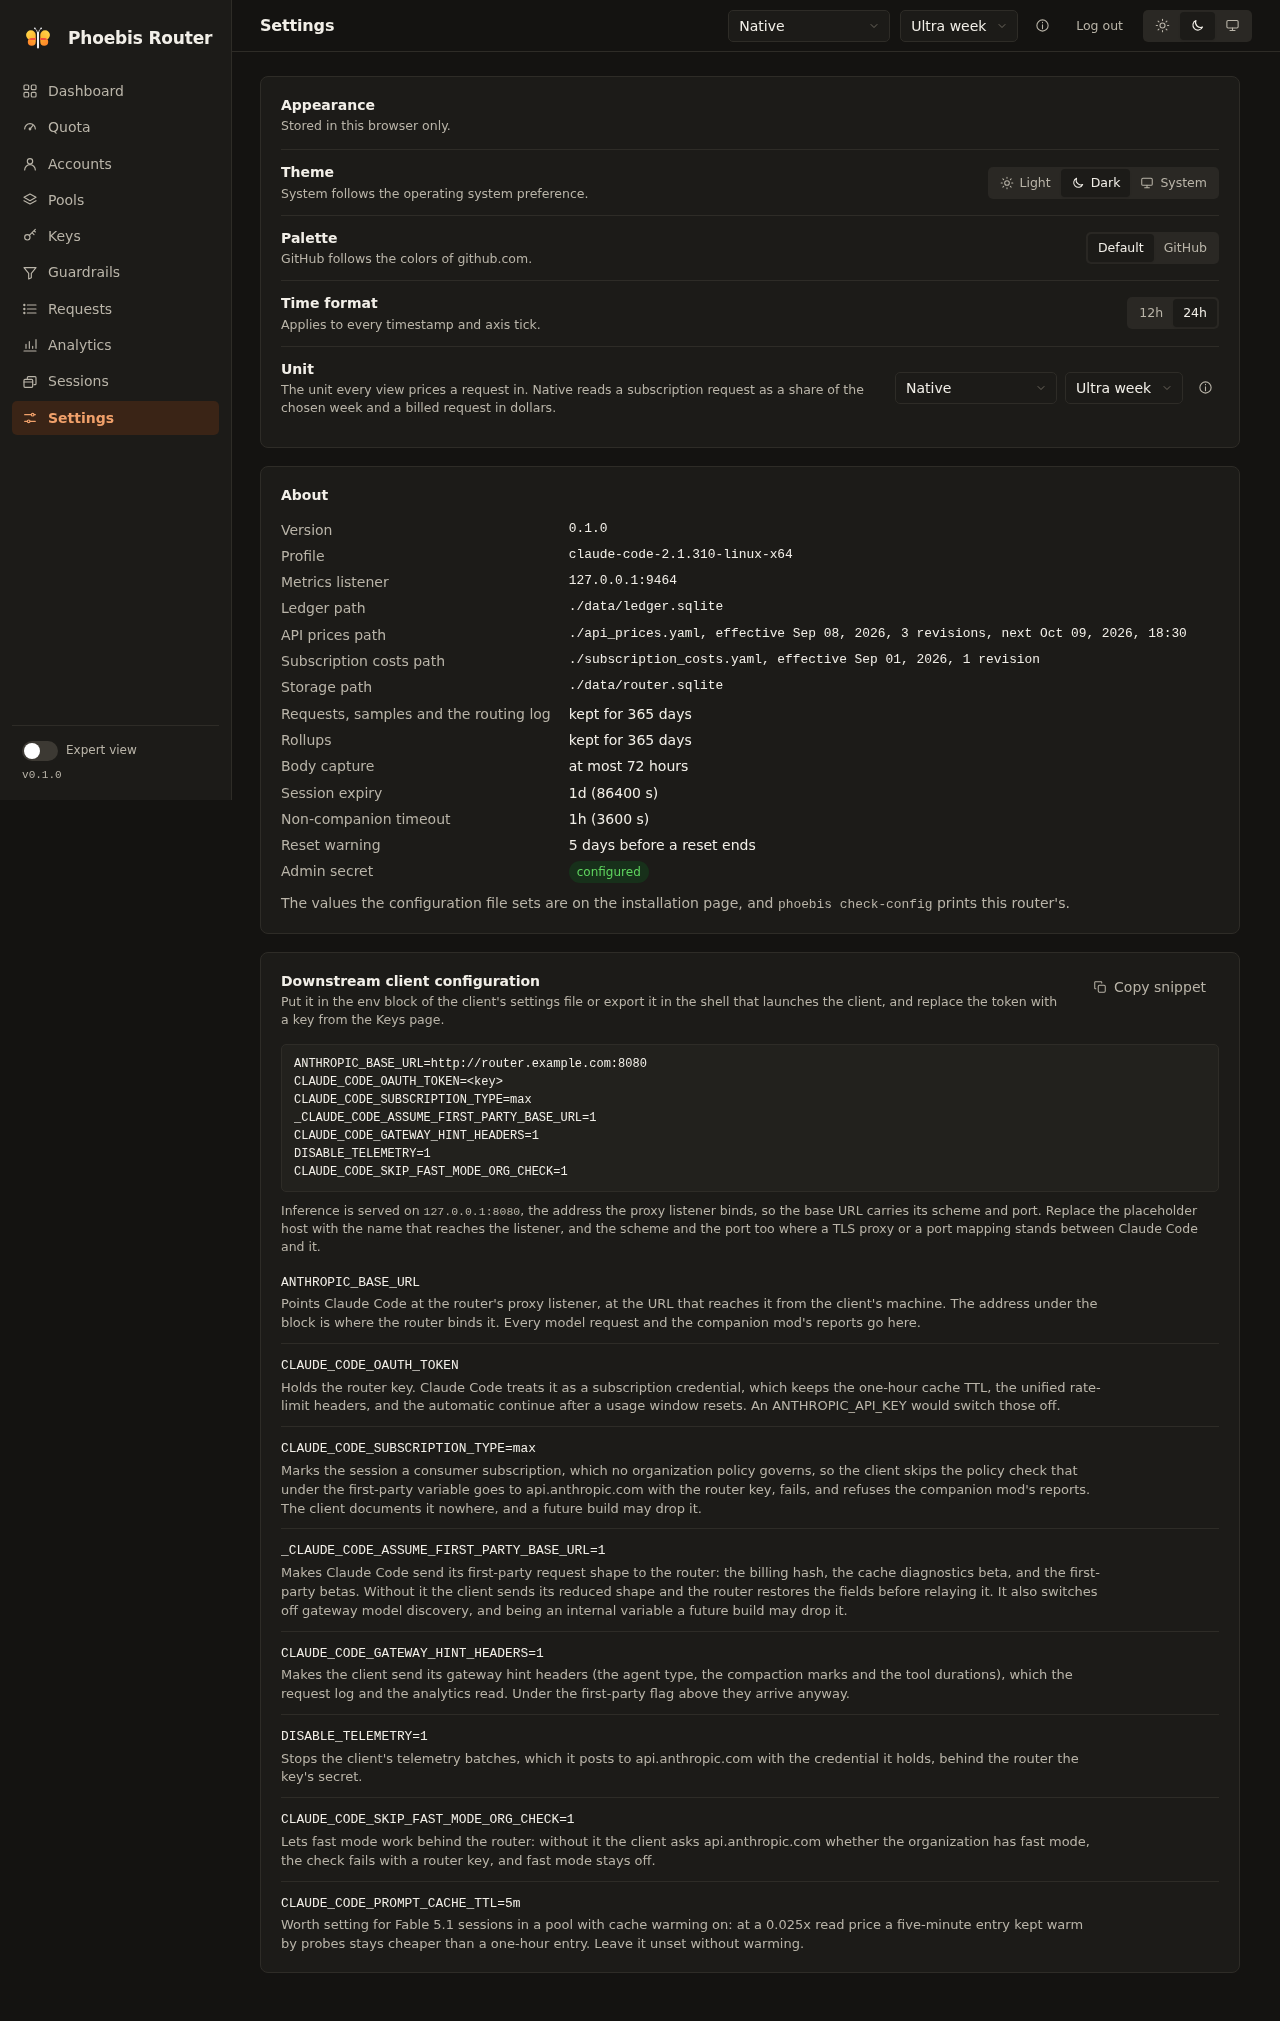
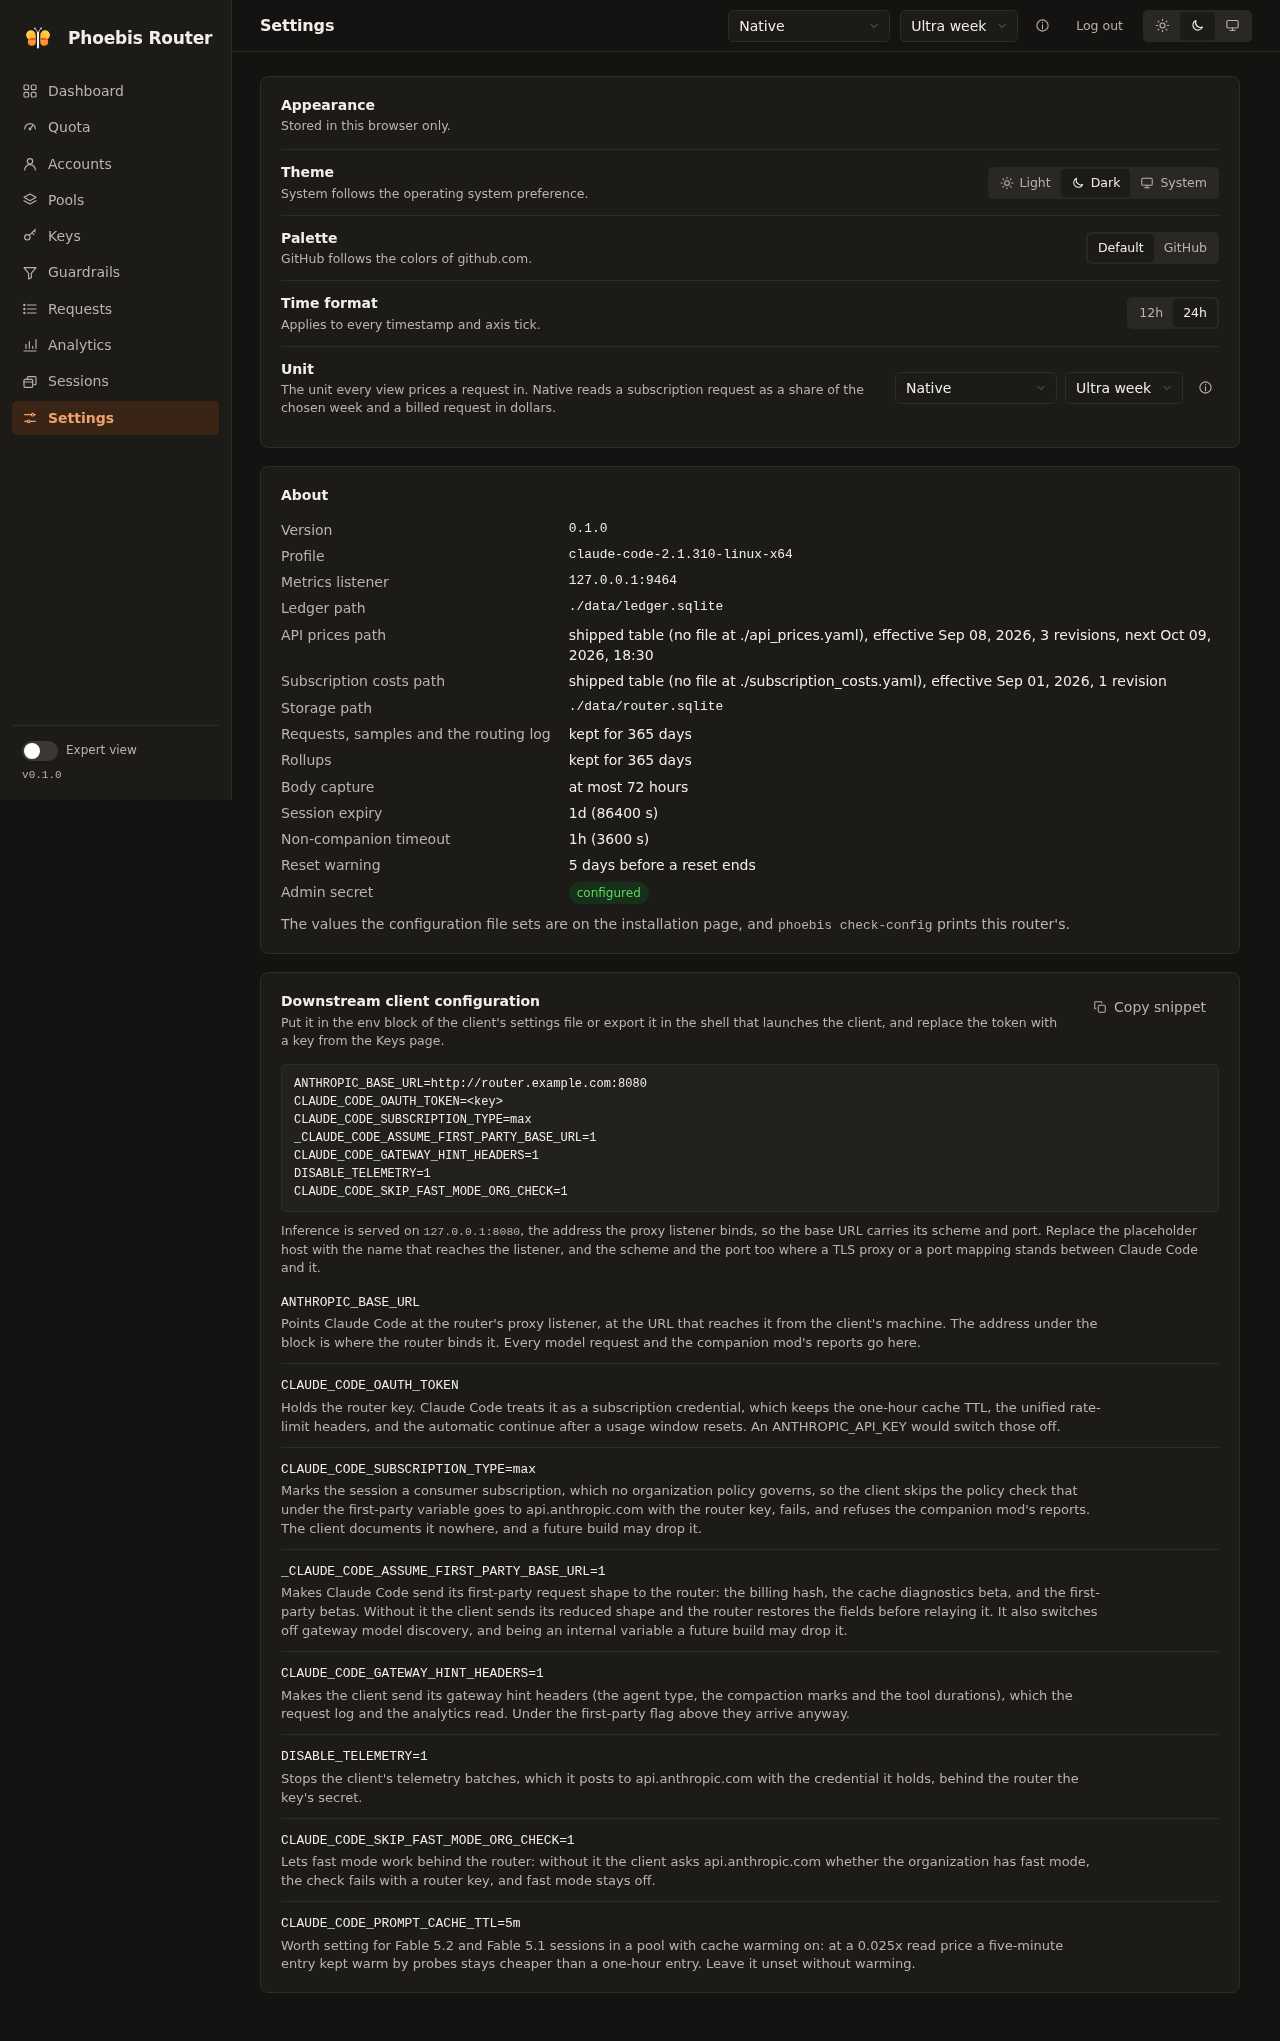
Name each price table's source, add Fable 5.2 to the TTL advice
A router that finds no file at a configured price path serves the
table it ships, and the About card's "API prices path" and
"Subscription costs path" rows still printed that path as if the
router had read it. Each row now reads the table's source: "shipped
table (no file at <path>)" beside a set path, "shipped table (not
configured)" where the key is unset, and the path where the router
read the file. Only a row that reads a file keeps the mono face.

The mock's two tables are the shipped ones beside two configured
paths, so the story's rows read "shipped table (no file at
./api_prices.yaml)" and "shipped table (no file at
./subscription_costs.yaml)" and the settings screenshots move. The
smoke's About list and its unreadable cost model case read the
shipped form, and its free-text and pending cases give their price
table a file source, so they keep the path at the row's head.

The CLAUDE_CODE_PROMPT_CACHE_TTL=5m advice names Fable 5.2 beside
Fable 5.1.

diff --git a/web/src/pages/SettingsPage.tsx b/web/src/pages/SettingsPage.tsx
@@ -41,7 +41,7 @@ const ENV_TERMS: { body: string; term: string }[] = [
   },
   {
     term: 'CLAUDE_CODE_PROMPT_CACHE_TTL=5m',
-    body: 'Worth setting for Fable 5.1 sessions in a pool with cache warming on: at a 0.025x read price a five-minute entry kept warm by probes stays cheaper than a one-hour entry. Leave it unset without warming.',
+    body: 'Worth setting for Fable 5.2 and Fable 5.1 sessions in a pool with cache warming on: at a 0.025x read price a five-minute entry kept warm by probes stays cheaper than a one-hour entry. Leave it unset without warming.',
   },
 ];
 
@@ -62,6 +62,10 @@ const revisionsNote = (revisions: { effective: string; effectiveDate: string | n
   const count = plural(revisions.length, 'revision');
   return `effective ${effectiveLabel(inForce.effective)}, ${count}${pending === undefined ? '' : `, next ${effectiveLabel(pending.effective)}`}`;
 };
+
+/** A price row's source words. With no path set the router can only have read the table it ships. */
+const sourceWords = (source: string, path: string | null): string =>
+  path === null ? 'shipped table (not configured)' : source === 'shipped' ? `shipped table (no file at ${path})` : path;
 
 function SecretBadge({ configured }: { configured: boolean }) {
   return <Badge tone={configured ? 'good' : 'warning'}>{configured ? 'configured' : 'not configured'}</Badge>;
@@ -153,8 +157,8 @@ export function SettingsPage() {
                 { label: 'Profile', value: s.about.profile, mono: true },
                 { label: 'Metrics listener', value: s.listeners.metrics, mono: true, title: 'The Prometheus scrape endpoint.' },
                 { label: 'Ledger path', value: s.storage.ledgerPath, mono: true, title: bootstrapNote('stats.ledger_path') },
-                { label: 'API prices path', value: `${s.storage.apiPricesPath ?? 'not configured'}, ${revisionsNote(s.apiPrices.revisions, s.apiPrices.effective, now)}`, mono: s.storage.apiPricesPath !== null, title: bootstrapNote('stats.api_prices_path') },
-                { label: 'Subscription costs path', value: `${s.storage.subscriptionCostsPath ?? 'not configured'}${s.subscriptionCosts.problem === null ? `, ${revisionsNote(s.subscriptionCosts.revisions, s.subscriptionCosts.effective, now)}` : `. ${s.subscriptionCosts.problem}`}`, mono: s.subscriptionCosts.problem === null && s.storage.subscriptionCostsPath !== null, title: bootstrapNote('stats.subscription_costs_path') },
+                { label: 'API prices path', value: `${sourceWords(s.apiPrices.source, s.storage.apiPricesPath)}, ${revisionsNote(s.apiPrices.revisions, s.apiPrices.effective, now)}`, mono: s.apiPrices.source !== 'shipped' && s.storage.apiPricesPath !== null, title: bootstrapNote('stats.api_prices_path') },
+                { label: 'Subscription costs path', value: `${sourceWords(s.subscriptionCosts.source, s.storage.subscriptionCostsPath)}${s.subscriptionCosts.problem === null ? `, ${revisionsNote(s.subscriptionCosts.revisions, s.subscriptionCosts.effective, now)}` : `. ${s.subscriptionCosts.problem}`}`, mono: s.subscriptionCosts.problem === null && s.subscriptionCosts.source !== 'shipped' && s.storage.subscriptionCostsPath !== null, title: bootstrapNote('stats.subscription_costs_path') },
                 { label: 'Storage path', value: s.storage.path, mono: true, title: bootstrapNote('storage.path') },
                 { label: 'Requests, samples and the routing log', value: keptFor(s.retention.retentionDays), title: bootstrapNote('stats.retention_days') },
                 { label: 'Rollups', value: keptFor(s.retention.rollupRetentionDays), title: bootstrapNote('stats.rollup_retention_days') },
